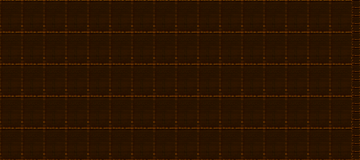
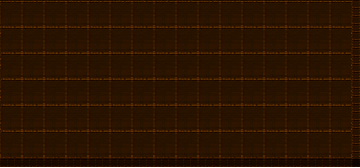
Update LCD layout and display assets
Set the LCD default to six rows, adjust row spacing and font offsets, and update the deck and display graphics. Also add an LCD outline and tidy startup environment and warning setup.

diff --git a/widget.py b/widget.py
@@ -542,6 +542,7 @@ class Valve(Widget):
             self.value = 1.0
         app.resources.valve.set_alpha(int(self.value*256))
         app.screen.blit( app.resources.valve, (self.x, self.y), area=(0, 0, width, height))
+        
 class RasterBuffer(object):
     """Pixel buffer packed as Unicode Braille (2 columns x 4 rows per cell)."""
     BRAILLE_BITS = (
@@ -632,23 +633,22 @@ class Lcd(Widget):
     MIXED_MODE = 1
     RASTER_MODE = 2
 
-    def __init__(self, name="UnnamedLcd", x=0, y=0, width=96, height=96,
-                 columns=16, rows=5, skin=0):
-        Lcd._demo = LcdDemo
-        self.columns = int(columns)
-        self.rows = int(rows)
-        self.row_height = (height - 4) // rows
-        self.column_width = (width - 4) // columns
-        self.skin = skin
-        self.color = (255, 128, 0)
-        self.mode = self.TEXT_MODE
-        self._text_lines = ["" for _ in range(rows)]
-        self._line_wide = [False for _ in range(rows)]
-        self.raster = RasterBuffer(self.columns * 4, self.rows * 4)
-        self.functions = ["", "", ""]
-        self._demo_started = pygame.time.get_ticks()
-        self._demo_frame = 0
-        self._demo_enabled = True
+    def __init__(self, name="UnnamedLcd", x=0, y=0, width=96, height=96, columns=16, rows=6, skin=0):
+        Lcd._demo           = LcdDemo
+        self.columns        = int(columns)
+        self.rows           = int(rows)
+        self.row_height     = (height-12) // rows
+        self.column_width   = (width - 4) // columns
+        self.skin           = skin
+        self.color          = (255, 128, 0)
+        self.mode           = self.TEXT_MODE
+        self._text_lines    = ["" for _ in range(rows)]
+        self._line_wide     = [False for _ in range(rows)]
+        self.raster         = RasterBuffer(self.columns * 4, self.rows * 4)
+        self.functions      = ["", "", ""]
+        self._demo_started  = pygame.time.get_ticks()
+        self._demo_frame    = 0
+        self._demo_enabled  = True
         Lcd._demo.init(self)
         super().__init__(Widget.LCD, name, x, y, width, height, 0, 0, 0)
         self.interactive = False
@@ -728,6 +728,7 @@ class Lcd(Widget):
     def render(self, app):
         self.update()
         surface = app.screen
+        pygame.draw.rect( surface, (255, 0, 128), self.rect, 1)
         if self.mode == self.TEXT_MODE:
             lines = self._text_lines
             for row, line in enumerate(lines):
@@ -749,6 +750,7 @@ class Lcd(Widget):
             txt = font.render(line, True, self.color)
             surface.blit(txt, (self.x, self.y + row * self.row_height + font.offset),
                          area=(0, 0, self.width - 8, self.row_height))
+        
 
 class JogWheel(Widget):
     def __init__(self, name="UnnamedJogWheel", x=0, y=0, width=224, height=224, min=0, value=0, max=255):

diff --git a/ebirtribe.py b/ebirtribe.py
@@ -1,11 +1,7 @@
-import  os
-import warnings
-warnings.filterwarnings(
-    "ignore", 
-    category=UserWarning, 
-    message=".*pkg_resources is deprecated as an API.*"
-)
-os.environ['PYGAME_HIDE_SUPPORT_PROMPT'] = '1'
+#------------------------------------------------------------------------------
+import os           ; os.environ['PYGAME_HIDE_SUPPORT_PROMPT'] = '1'
+import warnings     ; warnings.filterwarnings("ignore", category=UserWarning, message=".*pkg_resources is deprecated as an API.*")
+#------------------------------------------------------------------------------
 import  pygame
 import  logo
 import  sys

diff --git a/ui.py b/ui.py
@@ -71,8 +71,8 @@ class UI:
         app.fonts.monospace = pygame.font.SysFont("Consolas", 16)
         
         app.fonts.ocr       .offset = -2
-        app.fonts.dot_xs    .offset = +3
-        app.fonts.dot_m     .offset = -1
+        app.fonts.dot_xs    .offset = -2
+        app.fonts.dot_m     .offset = -4
         app.fonts.dot_l     .offset = +3
         app.fonts.dot_xl    .offset = +4
         app.fonts.segments  .offset = +6
